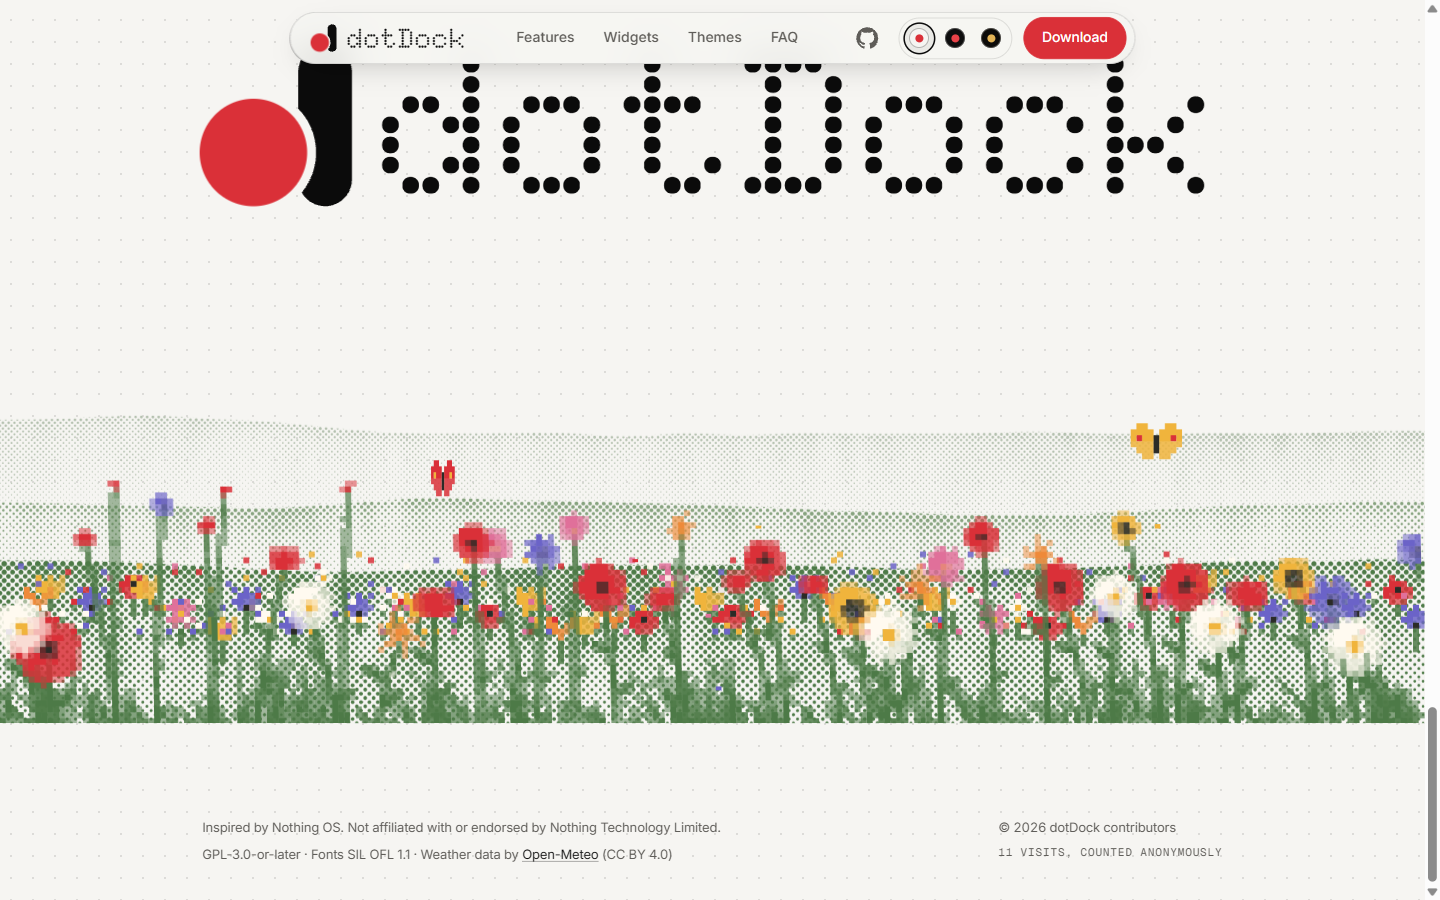
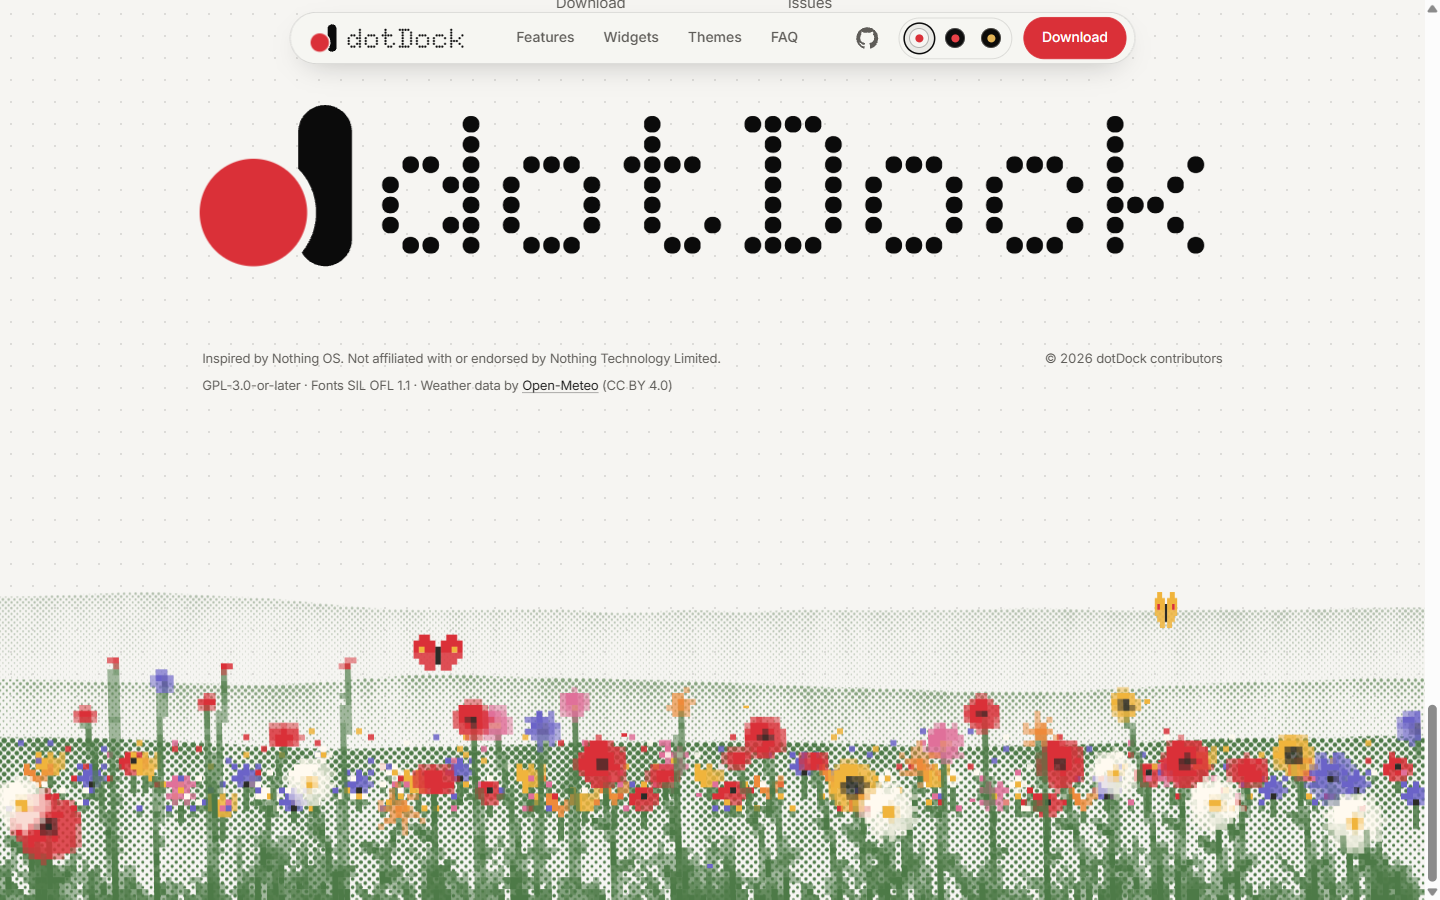
fix(website): the footer meadow ends the page, under the legal lines
The meadow was a strip cut straight across with an empty band below it before the legal text.
The legal lines now sit under the wordmark and the meadow comes last, its ground running to the
bottom edge of the page with nothing under it. Captures at 1440 and 390 in docs/QA/website-live.

diff --git a/website/src/styles/base.css b/website/src/styles/base.css
@@ -623,6 +623,9 @@ button {
 .footer__mark-icon {
   width: 0.76em;
   height: 0.8em;
+}
+.footer__meadow .live {
+  margin-block: clamp(8px, 2vw, 24px) 0;
 }
 .footer__legal {
   display: grid;
